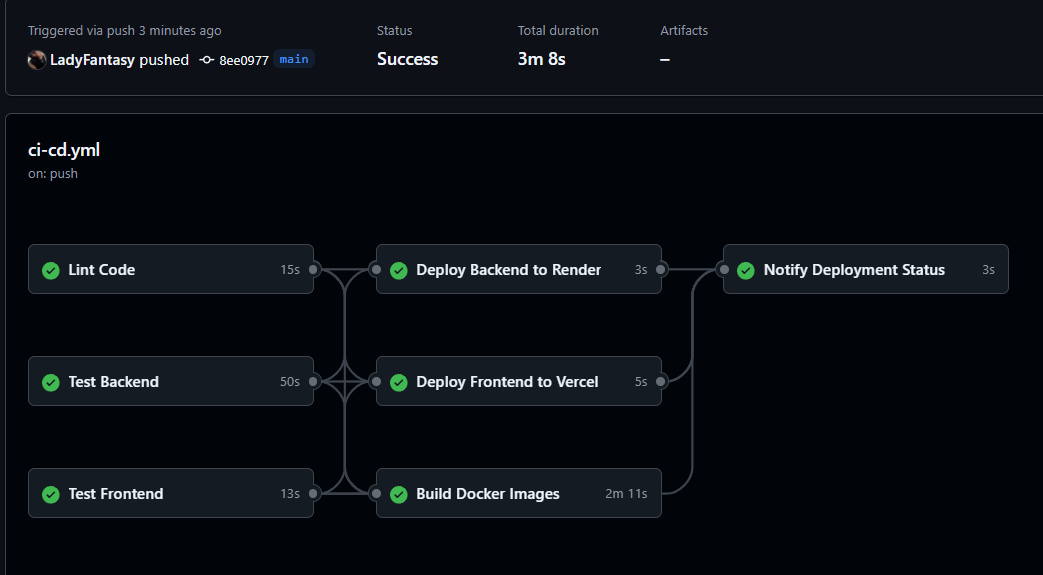
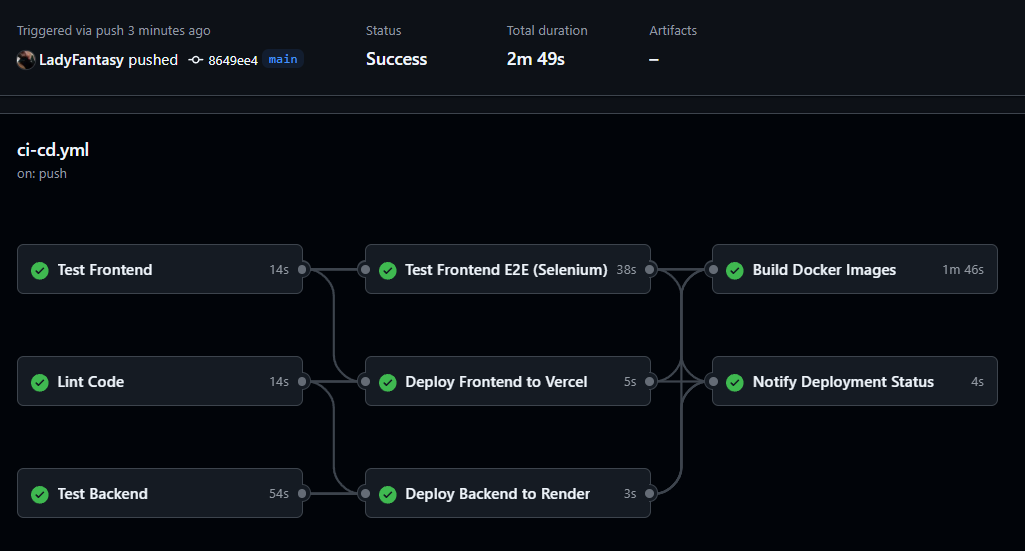
Add E2E tests to GitHub Actions and improve documentation

diff --git a/ProyectoPPVI/app.py b/ProyectoPPVI/app.py
@@ -49,9 +49,8 @@ jtw =  JWTManager(app)
 if os.getenv('IS_PRODUCTION') == 'true':
     # En producción, permitir solo el dominio de Vercel
     CORS(app, origins=[
-        "https://tpi-devops.vercel.app",
-        "https://tpi-devops-frontend.vercel.app",
-        "https://*.vercel.app"  # Para cualquier subdominio de Vercel
+        "https://tpi-devops-git-main-ladyfantasys-projects.vercel.app/*",
+        "https://*.vercel.app/*"  # Para cualquier subdominio de Vercel
     ])
 else:
     # En desarrollo, permitir localhost

diff --git a/README.md b/README.md
@@ -760,12 +760,50 @@ docker-compose exec backend env
 
 ---
 
+## 🏗 Infraestructura como Código - Análisis
+
+### Arquitectura Actual
+
+- **Backend**: Render (PaaS) - Configuración automática
+- **Frontend**: Vercel (PaaS) - Configuración automática
+- **Base de datos**: Filess.io (DBaaS) - Configuración automática
+- **CI/CD**: GitHub Actions - Configuración automática
+
+### ¿Por qué no Terraform?
+
+1. **PaaS vs IaaS**: Render/Vercel son PaaS (Platform as a Service)
+
+   - No necesitas gestionar servidores
+   - Configuración automática
+   - Terraform es más útil para IaaS (AWS, Azure, GCP)
+
+2. **Costo vs Beneficio**:
+
+   - PaaS gratuito vs IaaS con costos
+   - Para este proyecto, PaaS es más eficiente
+
+3. **Complejidad innecesaria**:
+   - Tu pipeline ya está automatizado
+   - Agregar Terraform sería over-engineering
+
+### Conocimiento de IaC
+
+Aunque no lo uso en este proyecto, entiendo los conceptos:
+
+- **Infraestructura como código**
+- **Terraform/Ansible**
+- **Cuándo usar cada herramienta**
+
+---
+
 ## 📚 Documentación Adicional
 
 - **📖 [GitHub Actions CI/CD](./README-GITHUB-ACTIONS.md)**: Pipeline completo
 - **🐳 [Docker Setup](./README-Docker.md)**: Configuración de contenedores
 - **🚀 [Deploy Guide](./README-DEPLOY.md)**: Guía de despliegue
 - **📸 [Images Guide](./docs/images/README.md)**: Guía de imágenes para docs
+- **📖 [README-GITHUB-ACTIONS.md](README-GITHUB-ACTIONS.md)**: Configuración de GitHub Actions
+- **�� [README-TP-DEVOPS.md](README-TP-DEVOPS.md)**: Trabajo Práctico de DevOps
 
 ---
 
